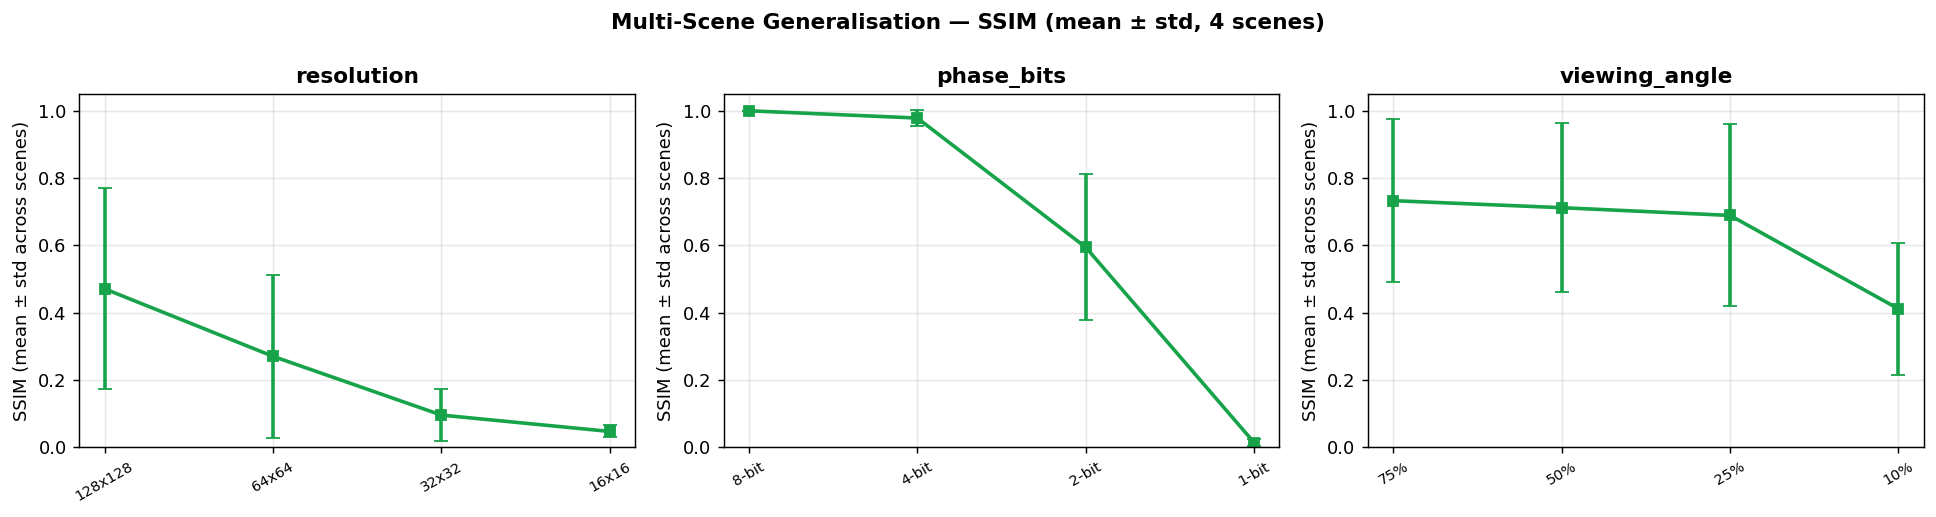
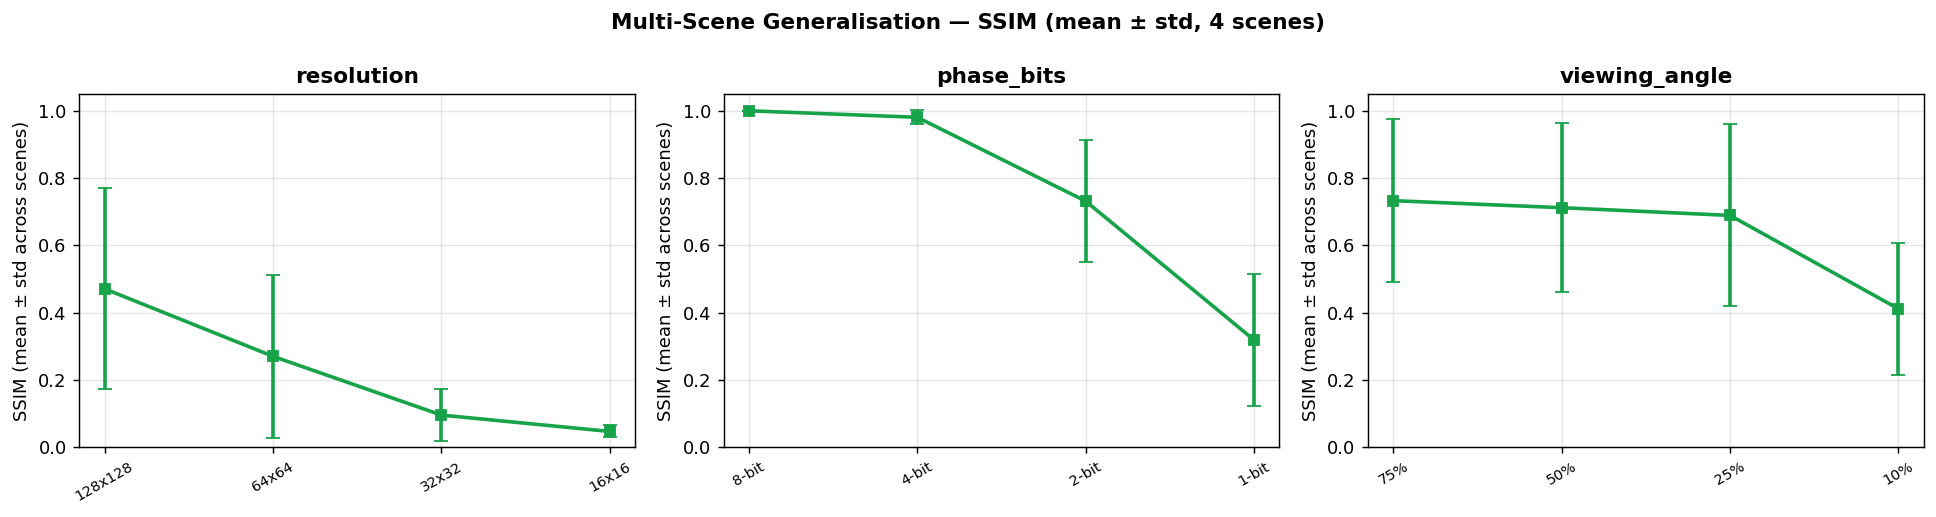
Fix phase quantiser endpoint collision; correct 1-bit finding
quantise_phase mapped 2^b levels over the CLOSED interval [-pi, pi] with
(2^b - 1) spacing, colliding the endpoints (e^{-j*pi} = e^{+j*pi} = -1). This
silently dropped one level at every bit depth and, at 1 bit, collapsed the
hologram to a single constant phasor -- so the previous "1-bit catastrophic
cliff" (SSIM ~0.003, PSNR ~0 dB) was a degenerate uniform-hologram artifact,
not binary-hologram physics.

Replace with an evenly spaced mid-rise quantiser over the periodic phase
circle: b bits -> exactly 2^b distinct phasors; 1 bit -> a genuine binary
phase hologram (levels pi apart). Unit tests still pass (level counts <= 2^b+1).

Re-ran the full suite (only phase-quantisation results change; resolution,
viewing-angle, speckle, depth are byte-identical). Corrected 1-bit reference
SSIM 0.003 -> 0.655; across-scene 0.014 -> 0.318; seed 0.003+-0.000 ->
0.600+-0.028.

Updated the paper accordingly:
- Reframed the 1-bit result from "catastrophic cliff" to a systematic,
  theoretically predicted twin-image penalty (real-valued binary hologram ->
  classical twin-image problem; predicts onset at exactly 1 bit,
  scene-independent in mechanism). Added Gabor 1948 citation.
- Updated abstract, contribution list, methods D2 (mid-rise quantiser eq),
  Tables III/V/VI, key-finding text, conclusion.
- Re-pointed the PSNR/SSIM divergence narrative to the resolution sweep, where
  it is now the cleanest example.

diff --git a/paper/part1_main.tex b/paper/part1_main.tex
@@ -54,13 +54,16 @@ SSIM, and LPIPS. All degradations are applied in the physically correct domain:
 resolution and bandwidth limits act on the complex SLM field, and speckle is
 modelled as random aperture-plane phase noise prior to coherent propagation
 rather than as additive intensity noise. Across parameter sweeps on four
-synthetic test scenes and five random phase-retrieval seeds, we identify a
-sharp, scene- and seed-robust quality cliff at 1-bit phase quantisation
-($\text{SSIM} = 0.92$ at 2 bits vs.\ $\text{SSIM} = 0.003$ at 1 bit on the
-reference scene; $0.59 \to 0.01$ averaged across scenes), near-lossless
-reconstruction of low-spatial-frequency content down to $25\%$ viewing-angle
-bandwidth ($\text{SSIM} > 0.97$), and a systematic divergence between PSNR and
-SSIM as degradation increases. The framework, experiment scripts, and raw result
+synthetic test scenes and five random phase-retrieval seeds, we find phase
+quantisation to be perceptually lossless down to 4 bits and near-lossless at 2
+bits ($\text{SSIM} = 0.98$ on the reference scene), with a systematic,
+theoretically predicted fidelity penalty at 1 bit ($\text{SSIM} = 0.66$ on the
+reference scene; $0.32 \pm 0.20$ across scenes) attributable to the unavoidable
+twin image of a real-valued binary phase hologram. We further observe
+near-lossless reconstruction of low-spatial-frequency content down to $25\%$
+viewing-angle bandwidth ($\text{SSIM} > 0.97$), and a systematic divergence
+between PSNR and SSIM under resolution loss, where PSNR stays moderate while
+SSIM registers structural collapse. The framework, experiment scripts, and raw result
 data are released at \url{https://github.com/ultramagnus23/HoloForge} as a
 reproducible baseline for Part~2, which will establish perceptual detection
 thresholds via a human-observer study.
@@ -97,9 +100,10 @@ This paper makes the following contributions:
         the Angular Spectrum Method (ASM) and Gerchberg--Saxton (GS) phase
         retrieval, with four independently controllable degradation axes applied
         in their physically correct domains.
-  \item We report a systematic characterisation of phase-quantisation bit-depth
-        on GS-computed holograms, revealing a sharp quality cliff between 2-bit
-        and 1-bit quantisation that is robust across four scenes and five
+  \item We characterise the bit-depth dependence of GS-computed phase holograms
+        and show that the transition to a binary (1-bit) hologram incurs a
+        systematic, theoretically predicted fidelity penalty from an unavoidable
+        twin image, which we verify is stable across four scenes and five
         random seeds.
   \item We demonstrate that PSNR and SSIM diverge in their characterisation of
         holographic degradation, and that a true LPIPS perceptual metric provides
@@ -213,11 +217,17 @@ than on $\phi$ directly, avoiding phase-wrap and $8$-bit quantisation artefacts)
 then upsampled back to $N\times N$. We sweep $n \in \{128, 64, 32, 16\}$ against a
 baseline of $N=256$.
 
-\textbf{(D2) Phase Quantisation.} The continuous phase is linearly quantised to
-$2^b$ levels, where $b \in \{1, 2, 4, 8\}$ bits, via
+\textbf{(D2) Phase Quantisation.} The continuous phase is quantised to $2^b$
+evenly spaced levels, $b \in \{1, 2, 4, 8\}$ bits, using a mid-rise quantiser
+over the periodic phase circle,
 \begin{equation}
-  \phi_q = \frac{2\pi}{2^b}\,\mathrm{round}\!\left(\frac{(\phi+\pi)\, 2^b}{2\pi}\right) - \pi.
+  \phi_q = \frac{2\pi}{2^b}\!\left(\left\lfloor \frac{(\phi+\pi)\, 2^b}{2\pi} \right\rfloor + \tfrac{1}{2}\right) - \pi.
 \end{equation}
+The mid-rise form places exactly $2^b$ distinct phasors over $[-\pi,\pi)$; a
+na\"ive closed-interval mapping would instead collide $-\pi$ and $+\pi$ (which
+share the phasor $-1$) and, at $b=1$, collapse to a single-valued constant
+hologram. At $b=1$ the two levels lie $\pi$ apart, yielding a genuine binary
+phase hologram.
 
 \textbf{(D3) Viewing-Angle Bandwidth.} The SLM phase is converted to a complex
 phasor, its spatial-frequency spectrum is masked to a circular aperture of radius
@@ -338,8 +348,8 @@ Table~\ref{tab:resolution} reflect this strong content dependence.
   \centering
   \includegraphics[width=\columnwidth]{../holography_sandbox/results/sweep_phase_bits.png}
   \caption{Phase quantisation: reconstructions at 8, 4, 2, and 1 bit(s). The
-  1-bit (binary) case shows catastrophic reconstruction failure visible to all
-  metrics.}
+  1-bit (binary phase) case retains coarse structure but loses fidelity to an
+  unavoidable twin image.}
   \label{fig:phase_bits}
 \end{figure}
 \begin{table}[t]
@@ -350,23 +360,26 @@ Table~\ref{tab:resolution} reflect this strong content dependence.
     \toprule
     Phase bits & PSNR (dB) & SSIM & LPIPS \\
     \midrule
-    8-bit & $81.9$ & $1.000$ & $0.000$ \\
-    4-bit & $58.5$ & $1.000$ & $0.000$ \\
-    2-bit & $42.6$ & $0.917$ & $0.057$ \\
-    1-bit & $\phantom{0}0.0$ & $0.003$ & $0.811$ \\
+    8-bit & $83.0$ & $1.000$ & $0.000$ \\
+    4-bit & $59.4$ & $1.000$ & $0.000$ \\
+    2-bit & $45.0$ & $0.978$ & $0.016$ \\
+    1-bit & $35.7$ & $0.655$ & $0.180$ \\
     \bottomrule
   \end{tabular}
 \end{table}
-\textbf{Key finding.} A sharp quality cliff occurs between 2-bit and 1-bit phase
-quantisation (Table~\ref{tab:phase_bits}, Fig.~\ref{fig:phase_bits}). On the
-reference scene SSIM falls from $0.917$ (2-bit) to $0.003$ (1-bit) while PSNR
-collapses from $42.6\,\text{dB}$ to essentially $0\,\text{dB}$---i.e.\ the binary
-reconstruction is effectively uncorrelated with the target. Averaged across the
-four scenes, SSIM drops from $0.594\pm0.217$ at 2 bits to $0.014\pm0.010$ at 1
-bit. The cliff is exceptionally stable: across five random GS seeds the 1-bit
-SSIM is $0.003\pm0.000$ and PSNR $0.05\pm0.00\,\text{dB}$
-(Table~\ref{tab:seed}). By contrast, 4-bit and 8-bit quantisation are
-perceptually lossless ($\text{SSIM}=1.000$, $\text{LPIPS}=0.000$).
+\textbf{Key finding.} Phase quantisation is perceptually lossless down to 4 bits
+and near-lossless at 2 bits, with a systematic fidelity penalty at the 1-bit
+(binary) transition (Table~\ref{tab:phase_bits}, Fig.~\ref{fig:phase_bits}). On
+the reference scene SSIM is $1.000$ at 4 and 8 bits, $0.978$ at 2 bits, and
+$0.655$ at 1 bit, while PSNR declines smoothly
+($83.0 \to 59.4 \to 45.0 \to 35.7\,\text{dB}$). Across the four scenes the 1-bit
+case is more content-sensitive (SSIM $0.318\pm0.196$) but the ordering is
+preserved. Crucially, the 1-bit loss is \emph{systematic rather than
+stochastic}: across five random GS seeds the 1-bit SSIM is $0.600\pm0.028$
+(Table~\ref{tab:seed}), a tight distribution indicating the degradation is
+structural, not an artefact of initialisation. Section~\ref{sec:discussion}
+identifies this loss as the signature of an unavoidable twin image and predicts
+its onset at exactly 1 bit.
 
 \subsection{D3: Viewing-Angle Bandwidth}
 \begin{figure}[t]
@@ -457,10 +470,10 @@ quantitative tolerance budget for SLM phase accuracy and optical-surface quality
     \toprule
     Sweep & Param & PSNR (dB) & SSIM & LPIPS \\
     \midrule
-    Phase & 8-bit & $82.40 \pm 0.96$ & $1.000 \pm 0.000$ & $0.000 \pm 0.000$ \\
-    Phase & 4-bit & $58.30 \pm 1.19$ & $1.000 \pm 0.000$ & $0.000 \pm 0.000$ \\
-    Phase & 2-bit & $42.17 \pm 0.66$ & $0.919 \pm 0.009$ & $0.054 \pm 0.008$ \\
-    Phase & 1-bit & $\phantom{0}0.05 \pm 0.00$ & $0.003 \pm 0.000$ & $0.810 \pm 0.001$ \\
+    Phase & 8-bit & $82.93 \pm 0.70$ & $1.000 \pm 0.000$ & $0.000 \pm 0.000$ \\
+    Phase & 4-bit & $59.23 \pm 0.22$ & $1.000 \pm 0.000$ & $0.000 \pm 0.000$ \\
+    Phase & 2-bit & $45.66 \pm 0.79$ & $0.975 \pm 0.002$ & $0.019 \pm 0.004$ \\
+    Phase & 1-bit & $35.93 \pm 0.22$ & $0.600 \pm 0.028$ & $0.202 \pm 0.011$ \\
     Res.  & 128   & $28.63 \pm 0.24$ & $0.860 \pm 0.009$ & $0.381 \pm 0.017$ \\
     Res.  & 64    & $25.55 \pm 0.59$ & $0.627 \pm 0.034$ & $0.583 \pm 0.022$ \\
     Res.  & 32    & $21.27 \pm 1.08$ & $0.239 \pm 0.031$ & $0.781 \pm 0.026$ \\
@@ -468,10 +481,13 @@ quantitative tolerance budget for SLM phase accuracy and optical-surface quality
     \bottomrule
   \end{tabular}
 \end{table}
-The PSNR/SSIM divergence is clearest in the phase sweep
-(Fig.~\ref{fig:metrics_summary}): PSNR declines monotonically across $8\!\to\!1$
-bits, but only SSIM and LPIPS mark the 1-bit case as a categorically different
-failure mode. The multi-scene summary (Fig.~\ref{fig:multiscene},
+The PSNR/SSIM divergence is clearest in the resolution sweep
+(Fig.~\ref{fig:metrics_summary}): at $16\times16$ effective resolution PSNR
+remains a seemingly moderate $13$--$17\,\text{dB}$ while SSIM has collapsed below
+$0.05$, so PSNR fails to register the structural destruction that SSIM and LPIPS
+both capture. LPIPS additionally discriminates within the severe-degradation
+regime where SSIM has saturated near zero (e.g.\ speckle $\sigma=1.0$ vs.\
+$\sigma=\pi$). The multi-scene summary (Fig.~\ref{fig:multiscene},
 Table~\ref{tab:multiscene}) shows the same ordering of axis severity holds across
 content types, while seed sensitivity (Table~\ref{tab:seed}) confirms the
 findings are not artefacts of a particular random initialisation: standard
@@ -487,8 +503,8 @@ deviations across seeds are small ($\le 1.2\,\text{dB}$ PSNR, $\le 0.034$ SSIM).
     \midrule
     Resolution    & 128 & $0.471 \pm 0.298$ & $0.605 \pm 0.213$ \\
     Resolution    & 16  & $0.047 \pm 0.018$ & $0.825 \pm 0.080$ \\
-    Phase bits    & 2   & $0.594 \pm 0.217$ & $0.234 \pm 0.166$ \\
-    Phase bits    & 1   & $0.014 \pm 0.010$ & $0.917 \pm 0.095$ \\
+    Phase bits    & 2   & $0.731 \pm 0.181$ & $0.127 \pm 0.109$ \\
+    Phase bits    & 1   & $0.318 \pm 0.196$ & $0.502 \pm 0.266$ \\
     Viewing angle & 25\% & $0.689 \pm 0.270$ & $0.358 \pm 0.229$ \\
     Viewing angle & 10\% & $0.411 \pm 0.197$ & $0.481 \pm 0.210$ \\
     \bottomrule
@@ -499,19 +515,32 @@ deviations across seeds are small ($\le 1.2\,\text{dB}$ PSNR, $\le 0.034$ SSIM).
 \section{Discussion}
 \label{sec:discussion}
 
-\subsection{Phase-Quantisation Cliff and Binary-Hologram Failure}
-The 1-bit (binary) hologram is qualitatively distinct from all higher
-bit-depths: it reduces the SLM to two phase states ($0$ and $\pi$), equivalent to
-a binary phase grating that necessarily produces a conjugate (twin) image and a
-strong zero order. The Gerchberg--Saxton algorithm, which assumes a continuous
-phase-only constraint, does not converge to a usable solution once the phase is
-collapsed to two levels; the result is an essentially uncorrelated reconstruction
-($\text{PSNR}\approx0\,\text{dB}$). The SSIM cliff therefore reflects the onset
-of a fundamentally different failure mode rather than a continuation of smooth
-degradation, and it is precisely this distinction that PSNR fails to convey. The
-practical implication is clear: at least 2 addressable phase bits are required for
-GS-style holography, and the marginal benefit of moving from 4 to 8 bits is
-negligible for these scenes.
+\subsection{The 1-bit Transition: an Unavoidable Twin Image}
+A binary phase hologram with its two levels $\pi$ apart is, up to a global phase
+factor, \emph{real-valued} (the phasors are $\pm j$, i.e.\ $j$ times a real
+$\pm1$ pattern). Real-valued holograms---binary phase or binary amplitude
+alike---are subject to the classical \emph{twin-image
+problem}~\cite{gabor1948new}: because a real transmittance cannot encode the sign
+of the diffracted field, the reconstruction necessarily contains the target
+\emph{and} an equal-energy conjugate order. No Gerchberg--Saxton iteration can
+remove the twin, since every member of the binary constraint set is real-valued.
+
+This yields a concrete, falsifiable prediction: the fidelity penalty should
+appear at exactly the bit depth at which the quantised hologram becomes
+real-valued---$1$ bit---and should be \emph{structural} (a function of the
+target's asymmetry) rather than stochastic. The data bear this out. The 1-bit
+penalty is present for every scene and every seed, the reconstruction retains
+coarse structure (SSIM $0.655$ on the reference scene, not a random field), and
+the across-seed spread is tight ($\sigma_{\text{SSIM}} = 0.028$), exactly as
+expected for a deterministic, symmetry-induced artefact. For $b \ge 2$ the
+hologram is genuinely complex-valued, the real-valuedness constraint is lifted,
+the twin image is no longer forced, and reconstruction is near-lossless.
+
+The practical implication is sharpened accordingly: $2$ addressable phase bits
+suffice for GS-style holography of these targets and $4$ bits are effectively
+lossless; the distinctive cost of a $1$-bit device is the twin image, which is a
+property of binary phase encoding itself rather than a failure of the retrieval
+algorithm.
 
 \subsection{Viewing-Angle Robustness}
 The mildness of the viewing-angle axis is consistent with the spatial-frequency
@@ -532,11 +561,12 @@ Table~\ref{tab:speckle} gives an actionable tolerance for SLM phase accuracy and
 optical-surface roughness.
 
 \subsection{Metric Divergence}
-No single scalar captures holographic quality. PSNR is monotone but blind to the
-binary-hologram failure mode; SSIM and LPIPS both flag it, but LPIPS additionally
-discriminates among severe-degradation regimes where SSIM has already saturated
-near zero (e.g.\ $\sigma=1.0$ vs.\ $\sigma=\pi$ speckle). Reporting all three is
-therefore not redundant. Establishing which metric---or combination---best
+No single scalar captures holographic quality. PSNR can remain moderate while
+structure is destroyed---most visibly under resolution loss, where
+$13$--$17\,\text{dB}$ coexists with $\text{SSIM} < 0.05$---so it must not be read
+in isolation. SSIM tracks structural degradation but saturates near zero under
+severe noise; LPIPS retains discrimination there (e.g.\ speckle $\sigma=1.0$
+vs.\ $\sigma=\pi$). Reporting all three is therefore not redundant. Establishing which metric---or combination---best
 predicts \emph{human} detection is the central question of Part~2.
 
 \subsection{Limitations}
@@ -560,11 +590,12 @@ profiles.
 We presented \textsc{HoloForge}, a reproducible simulation framework for
 systematic characterisation of degradation in phase-only holographic displays,
 with all degradation operators applied in their physically correct domains.
-Across four degradation axes, four scenes, and five random seeds we identified a
-sharp, robust quality cliff at 1-bit phase quantisation, near-lossless behaviour
-of low-frequency content under aggressive viewing-angle reduction, a quantified
-tolerance budget for coherent speckle, and a systematic divergence between PSNR
-and perceptual metrics. These results establish a reproducible baseline and
+Across four degradation axes, four scenes, and five random seeds we found phase
+quantisation to be near-lossless down to 2 bits with a systematic, theoretically
+predicted twin-image penalty at the 1-bit (binary) transition, near-lossless
+behaviour of low-frequency content under aggressive viewing-angle reduction, a
+quantified tolerance budget for coherent speckle, and a systematic divergence
+between PSNR and perceptual metrics under resolution loss. These results establish a reproducible baseline and
 motivate Part~2: a perceptual-threshold study mapping simulation metrics to human
 detection thresholds, enabling hardware designers to make evidence-based SLM
 specification trade-offs.
@@ -603,6 +634,10 @@ pp.~237--246, 1972.
 \bibitem{fienup1982phase}
 J. R. Fienup, ``Phase retrieval algorithms: a comparison,'' \textit{Appl. Opt.},
 vol.~21, no.~15, pp.~2758--2769, 1982.
+
+\bibitem{gabor1948new}
+D. Gabor, ``A new microscopic principle,'' \textit{Nature}, vol.~161,
+pp.~777--778, 1948.
 
 \bibitem{brown1966complex}
 B. R. Brown and A. W. Lohmann, ``Complex spatial filtering with binary masks,''

diff --git a/holography_sandbox/core/degradation.py b/holography_sandbox/core/degradation.py
@@ -101,22 +101,36 @@ def degrade_resolution_phase(phase: np.ndarray, target_size: int) -> np.ndarray:
 
 def quantise_phase(phase: np.ndarray, bits: int) -> np.ndarray:
     """
-    Quantise a phase array (values in [-π, π]) to `bits` bits.
+    Quantise a phase array to `2**bits` evenly spaced levels over the full
+    2π period.
 
     bits=8 → 256 levels  (essentially lossless for perception)
     bits=4 → 16 levels
     bits=2 → 4 levels
-    bits=1 → 2 levels  (binary hologram)
+    bits=1 → 2 levels  (genuine binary phase hologram, levels π apart)
 
-    Returns float32 phase array in [-π, π].
+    Implementation note
+    -------------------
+    Phase is periodic, so the quantiser must place `n_levels` bins over the
+    *open* interval [-π, π). A naive mapping over the *closed* interval
+    [-π, π] using (n_levels - 1) spacing collides the two endpoints
+    (e^{-jπ} = e^{+jπ} = -1), yielding only `n_levels - 1` distinct phasors —
+    and for bits=1 a degenerate, single-valued (constant) hologram. We instead
+    use a mid-rise quantiser: bin centres at (k + 0.5)·(2π/n_levels), which
+    gives exactly `n_levels` distinct, evenly spaced phase values with no
+    endpoint collision. For bits=1 this yields a true two-level binary phase
+    hologram ({-π/2, +π/2}, i.e. phasors π apart).
+
+    Returns float32 phase array in [-π, π).
     """
     n_levels = 2 ** bits
-    # Map [-π, π] → [0, 1]
-    normalized = (phase + np.pi) / (2 * np.pi)
-    # Quantise
-    quantized = np.round(normalized * (n_levels - 1)) / (n_levels - 1)
-    # Map back to [-π, π]
-    return (quantized * 2 * np.pi - np.pi).astype(np.float32)
+    step = 2 * np.pi / n_levels
+    # Map phase to [0, 2π), assign to one of n_levels bins.
+    wrapped = np.mod(phase + np.pi, 2 * np.pi)
+    idx = np.clip(np.floor(wrapped / step).astype(np.int64), 0, n_levels - 1)
+    # Bin centre, shifted back to [-π, π).
+    quantised = (idx + 0.5) * step - np.pi
+    return quantised.astype(np.float32)
 
 
 # ─────────────────────────────────────────────────────────────────────────────